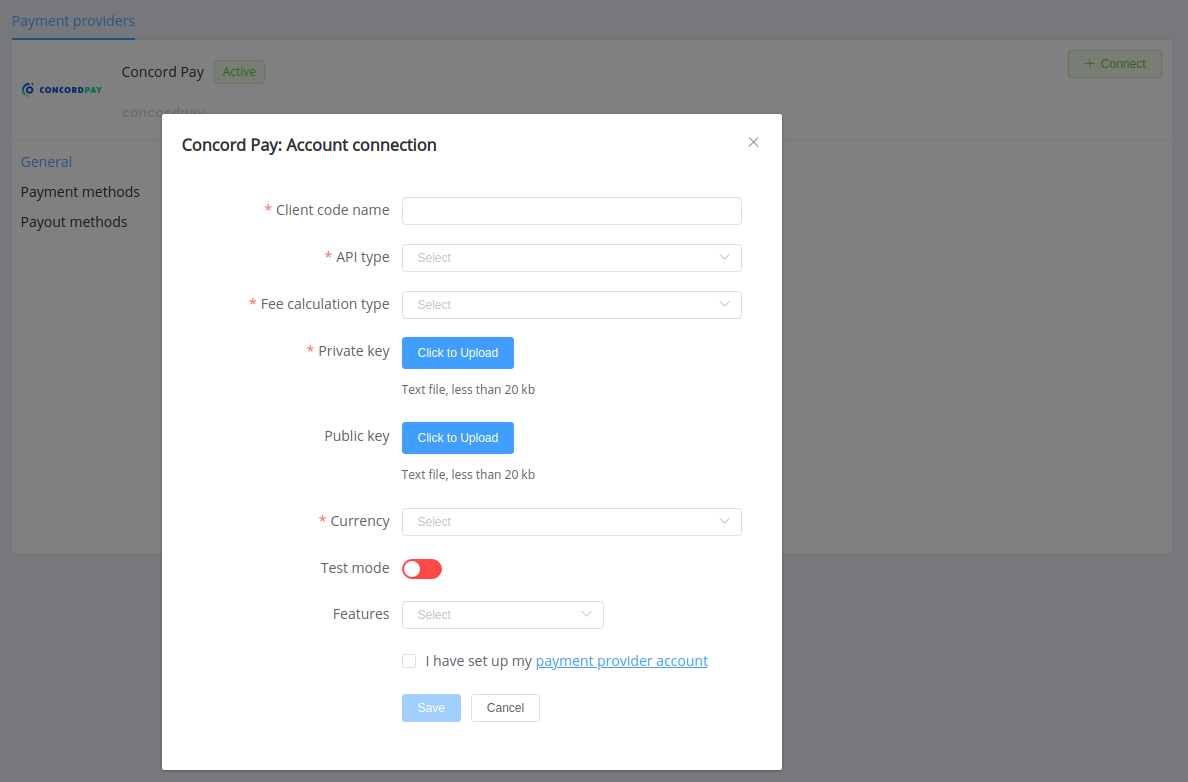
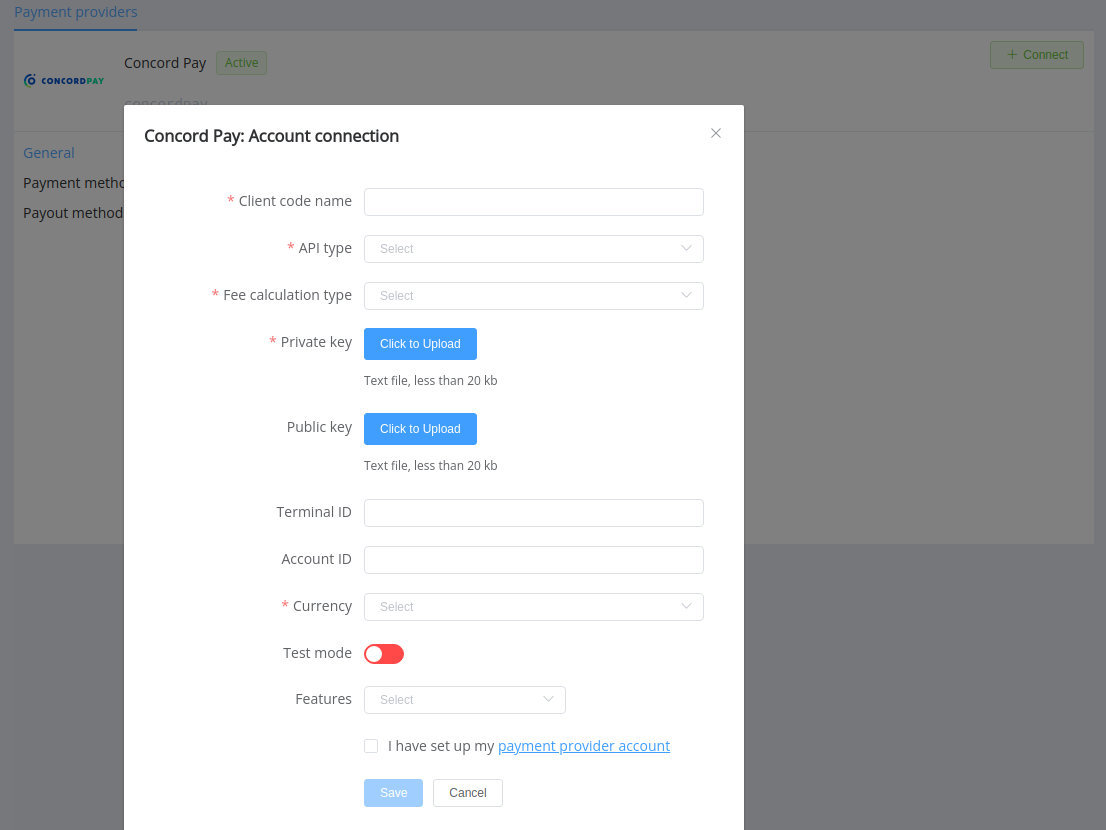
update concordpay & easytransfer

diff --git a/docs/connectors/concordpay/index.md b/docs/connectors/concordpay/index.md
@@ -11,34 +11,46 @@
 
 Follow the guidance for setting up a connection with ConcordPay as a payment service provider.
 
-## Set Up Account
+## Set up an account
 
 ### Step 1: Register at ConcordPay
 
-Sign up on the ConcordPay portal using the (authorisation form)[https://pay.concord.ua/cabinet/default/signup]. Set up your account and contact the ConcordPay support team.
+Sign up on the ConcordPay portal using the [authorisation form](https://pay.concord.ua/cabinet/default/signup). Set up your account and contact the ConcordPay support team.
 
 ### Step 2: Get credentials
 
-After registration, you obtain a unique client code name and also generate on your side a pair of RSA keys: public and private in the PEM (pkcs8) format. Contact your ConcordPay support manager if you have any complications with obtaining credentials.
-
-For the H2H connection, you also should know an API type and decide how the ConcordPay and {{custom.company_name}} will calculate the payment fee.
+After registration, you obtain a unique client code name (`clientCodeName`) and also generate on your side a pair of RSA keys: public and private in the PEM (pkcs8) format. Contact your ConcordPay support manager if you have any complications with obtaining credentials.
 
 !!! important
-    Be sure to check with the manager if you require to provide a white list of IPs, and if so, specify IP addresses from the [Corefy list](/integration/ips/).## Connect Provider Account
+    Be sure to check with the manager if you require to provide a white list of IPs, and if so, specify IP addresses from the [Corefy list](/integration/ips/).
 
-## Connect Provider Account
+### Optional: Get additional credentials
 
-### Step 1. Connect account at the {{custom.company_name}} Dashboard
+Suppose you plan to check balance statuses or process p2p transactions. In that case, you should request a `clientAccountId`, your account for payment within the ConcordPay system, and `terminalCode`, your terminal access pointer.
 
-Press **Connect** at [*ConcordPay Provider Overview*]({{custom.dashboard_base_url}}connect-directory/payment-providers/concordpay/general) page in *'New connection'* and choose **Provider account** option to open Connection form.
+!!! tip ""
+
+    You can get several account IDs and terminal codes bound to a single client code name for different business purposes; thus, you should connect them in the Corefy dashboard separately. 
+
+For the H2H connection, you also should know an API type and decide how ConcordPay and {{custom.company_name}} will calculate the payment fee (by inner or outer methods).
+
+## Connect a provider account
+
+### Step 1. Connect an account at the {{custom.company_name}} dashboard
+
+Press **Connect** at [*ConcordPay Provider Overview*]({{custom.dashboard_base_url}}connect-directory/payment-providers/concordpay/general) page in *'New connection'* and choose **Provider account** option to open the Connection form.
 
 ![Connect](images/provider-account.png)
 
-Enter credentials:
+Enter `clientCodeName` as a Client code name. Upload:
 
-* Client code name
-* Private Key
-* Public key (optional: only for **wholly new** accounts; if you entirely set up your account at the provider side, you shouldn't specify its Public key at the *{{custom.company_name}} Dashboard*)
+* Private key
+* Public key (optional: required only for **wholly new** accounts; if you entirely set up your account at the provider side, you shouldn't specify its Public key at the *{{custom.company_name}} Dashboard*)
+
+In case you have [additional credentials](#optional-get-additional-credentials), enter:
+
+* `terminalCode` --> Terminal ID
+* `clientAccountId` --> Account ID 
 
 Select Test or Live mode according to the type of account to connect with ConcordPay.
 
@@ -53,20 +65,24 @@ Press **Connect** at [*ConcordPay Provider Overview*]({{custom.dashboard_base_ur
 
 ![Connect](images/h2h-merchant-account.png)
 
-Enter credentials:
+Enter `clientCodeName` as a Client code name. Upload:
 
-* Client code name
-* Private Key
-* Public key (optional: only for **wholly new** accounts; if you entirely set up your account at the provider side, you shouldn't specify its Public key at the *{{custom.company_name}} Dashboard*)
+* Private key
+* Public key (optional: required only for **wholly new** accounts; if you entirely set up your account at the provider side, you shouldn't specify its Public key at the *{{custom.company_name}} Dashboard*).
 
 Choose your API type and Fee calculation type.
+
+In case you have [additional credentials](#optional-get-additional-credentials), enter:
+
+* `terminalCode` --> Terminal ID
+* `clientAccountId` --> Account ID 
 
 Select Test or Live mode according to the type of account to connect with ConcordPay.
 
 Choose Currency and Features. You can set these parameters according to available currencies and features for your Concord account, but it's necessary to check details of the connection with your {{custom.company_name}} account manager.
 
 !!! success
-    You have connected **ConcordPay** H2H merchant account!
+    You have connected the **ConcordPay** H2H merchant account!
 
 !!! question "Still looking for help connecting your ConcordPay account?"
     <!--email_off-->[Please contact our support team!](mailto:{{custom.support_email}})<!--/email_off-->

diff --git a/docs/connectors/easytransfer/index.md b/docs/connectors/easytransfer/index.md
@@ -6,20 +6,30 @@
 
 Follow the guidance for setting up a connection with EasyTransfer as a payment service provider.
 
-## Set Up Account
+## Set up an account
 
-### Step 1: Contact EasyTransfer support manager
+### Step 1: Contact the EasyTransfer support manager
 
 Contact the EasyTransfer support team via [email](mailto:info@easytransfer.com.ua). Submit the required documents to verify your account and gain access.
 
 ### Step 2: Get credentials
 
-After registration, you obtain a unique client code name and also generate on your side a pair of RSA keys: public and private in the PEM (pkcs8) format. Contact your EasyTransfer support manager if you have any complications with obtaining credentials.
+After registration, you obtain a unique client code name (`clientCodeName`) and also generate on your side a pair of RSA keys: public and private in the PEM (pkcs8) format. Contact your EasyTransfer support manager if you have any complications with obtaining credentials.
 
-For the H2H connection, you also should know an API type and decide how the EasyTransfer and {{custom.company_name}} will calculate the payment fee.
+You should also select how EasyTransfer and {{custom.company_name}} will calculate the payment fee (by inner or outer methods).
 
 !!! important
     Be sure to check with the manager if you require to provide a white list of IPs, and if so, specify IP addresses from the [Corefy list](/integration/ips/).
+
+### Optional: Get additional credentials
+
+Suppose you plan to check balance statuses or process p2p transactions. In that case, you should request a `clientAccountId`, your account for payment within the EasyTransfer system, and `terminalCode`, your terminal access pointer.
+
+!!! tip ""
+
+    You can get several account IDs and terminal codes bound to a single client code name for different business purposes; thus, you should connect them in the Corefy dashboard separately. 
+
+For the H2H connection, you also should know an API type.
 
 ## Connect Provider Account
 
@@ -29,16 +39,22 @@ Press **Connect** at [*EasyTransfer Provider Overview*]({{custom.dashboard_base_
 
 ![Connect](images/provider-account.png)
 
-Enter credentials:
+Enter `clientCodeName` as a Client code name. Upload:
 
-* Client code name
-* Private Key
-* Public key (optional: only for **wholly new** accounts; if you entirely set up your account at the provider side, you shouldn't specify its Public key at the *{{custom.company_name}} Dashboard*)
+* Private key
+* Public key (optional: required only for **wholly new** accounts; if you entirely set up your account at the provider side, you shouldn't specify its Public key at the *{{custom.company_name}} Dashboard*)
 
-Select Test or Live mode according to the type of account to connect with EasyTransfer.
+Choose your Fee calculation type.
+
+In case you have [additional credentials](#optional-get-additional-credentials), enter:
+
+* `terminalCode` --> Terminal ID
+* `clientAccountId` --> Account ID 
+
+Select Test or Live mode according to the type of account to connect with EasyTransfer. As option, select the language for the provider's payment page displaying (if not, it will be in Russian by default).
 
 !!! success
-    You have connected **EasyTransfer** account!
+    You have connected the **EasyTransfer** account!
 
 ## Connect H2H Merchant Account
 
@@ -48,17 +64,16 @@ Press **Connect** at [*EasyTransfer Provider Overview*]({{custom.dashboard_base_
 
 ![Connect](images/h2h-merchant-account.png)
 
-Enter credentials:
+Enter `clientCodeName` as a Client code name. Upload:
 
-* Client code name
-* Private Key
-* Public key (optional: only for **wholly new** accounts; if you entirely set up your account at the provider side, you shouldn't specify its Public key at the *{{custom.company_name}} Dashboard*)
+* Private key
+* Public key (optional: required only for **wholly new** accounts; if you entirely set up your account at the provider side, you shouldn't specify its Public key at the *{{custom.company_name}} Dashboard*)
 
 Choose your API type and Fee calculation type.
 
 Select Test or Live mode according to the type of account to connect with EasyTransfer.
 
-Choose Currency and Features. You can set these parameters according to available currencies and features for your Concord account, but it's necessary to check details of the connection with your {{custom.company_name}} account manager.
+Choose Currency and Features. You can set these parameters according to available currencies and features for your EasyTransfer account, but it's necessary to check details of the connection with your {{custom.company_name}} account manager.
 
 !!! success
     You have connected **EasyTransfer** H2H merchant account!
